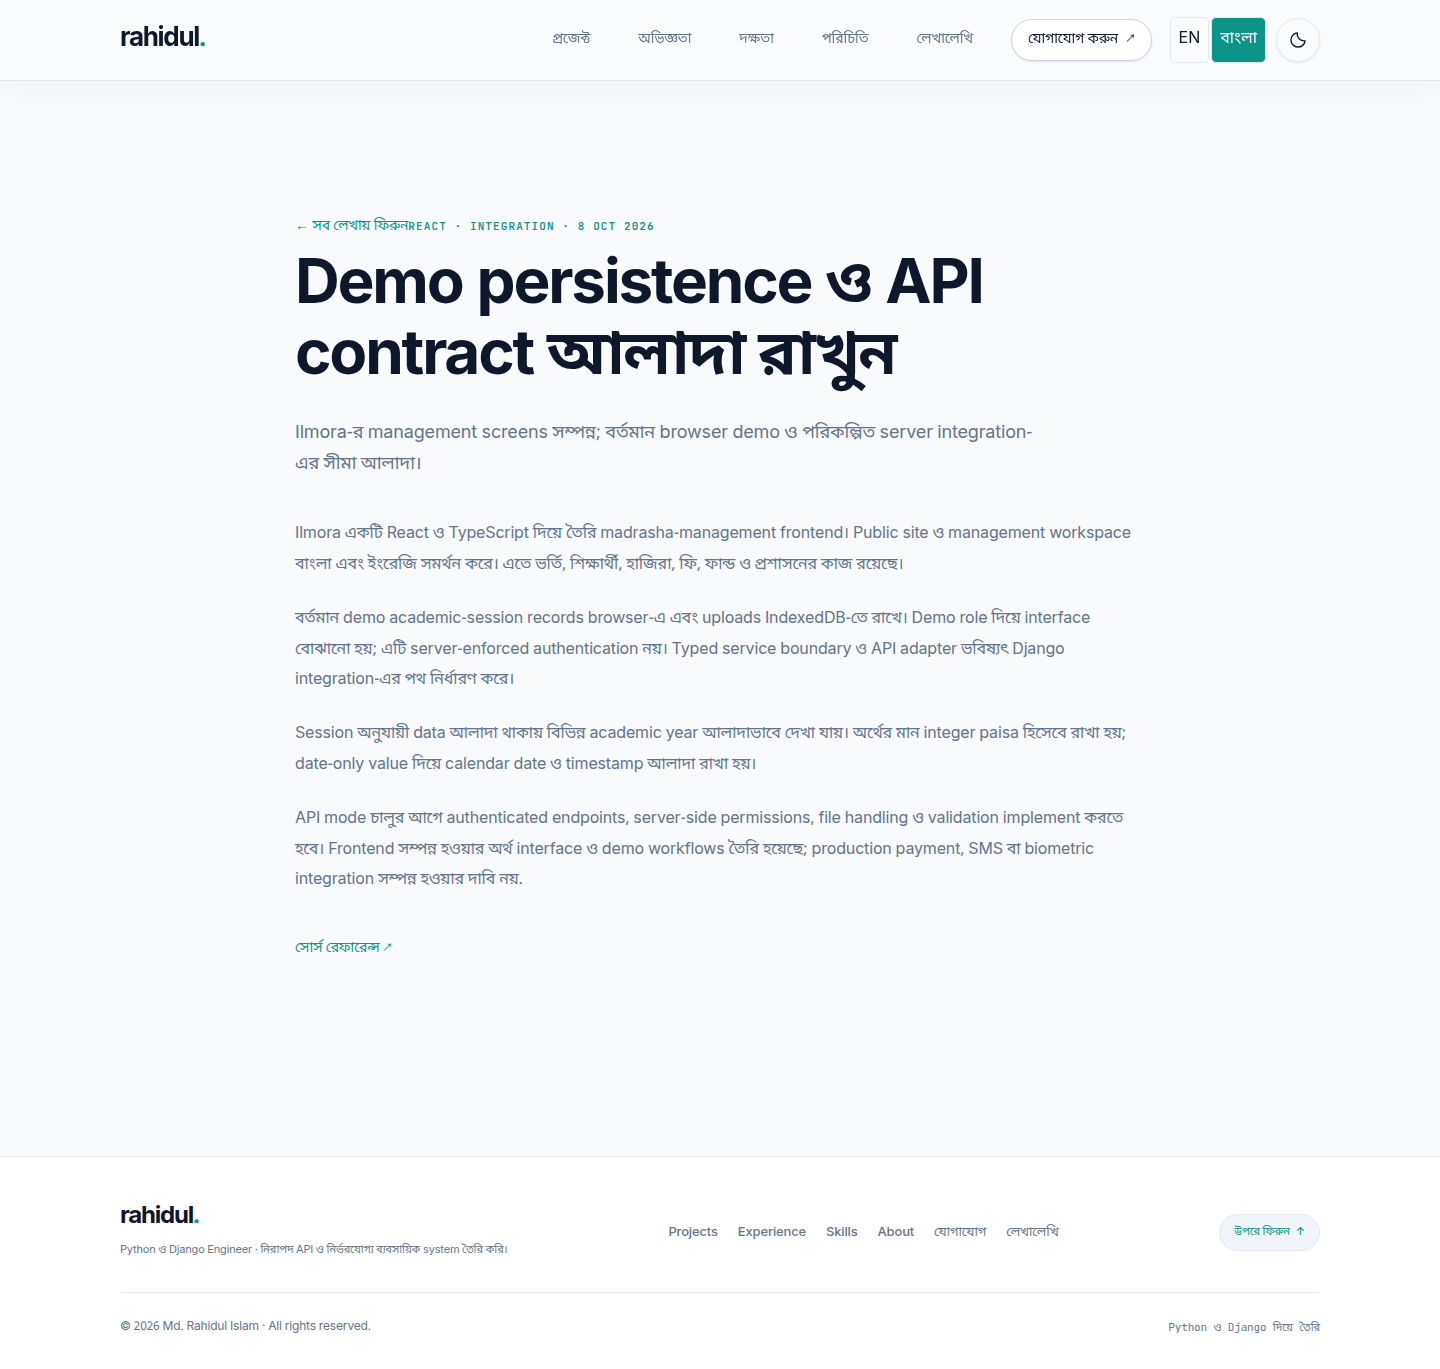
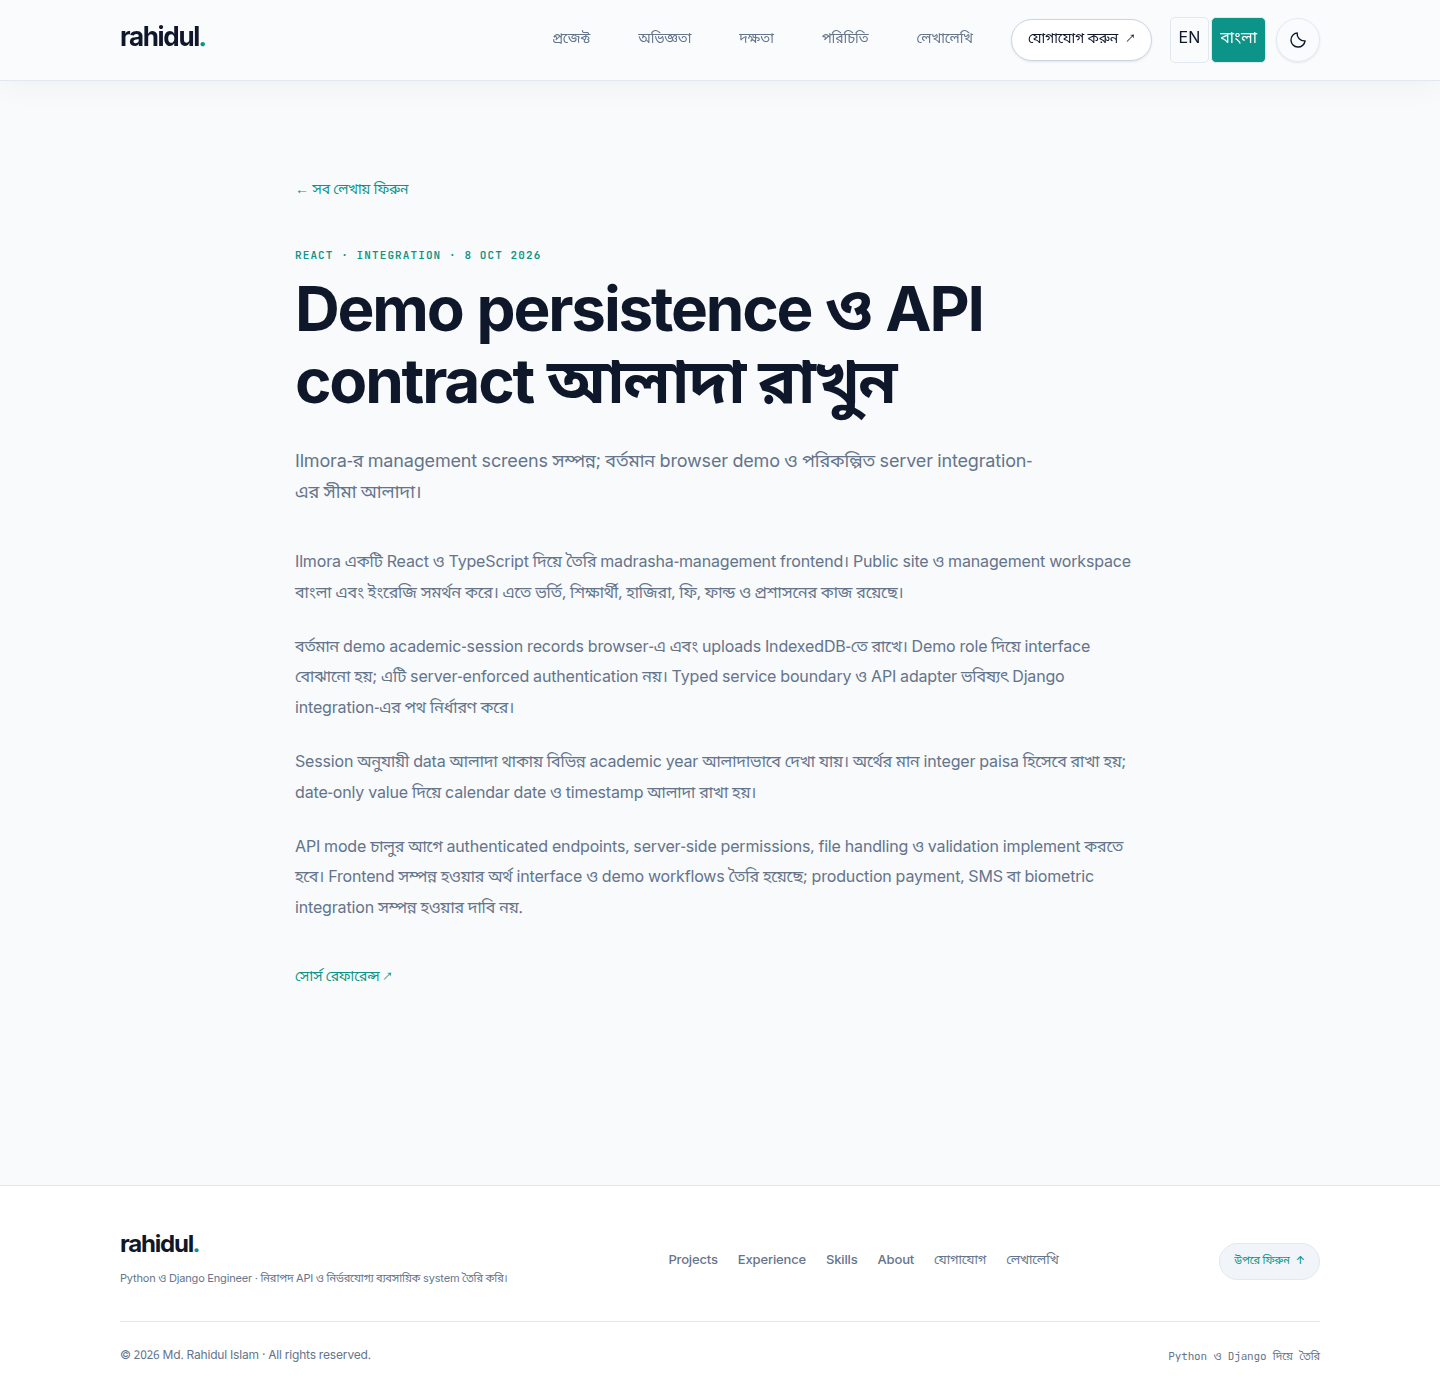
Polish Bangla validation and article reading layout

diff --git a/templates/layout/footer.html b/templates/layout/footer.html
@@ -5,10 +5,10 @@
       <p class="footer-tagline">{{ 'Python & Django Engineer · Building secure APIs and dependable business systems.'|translate:portfolio_language }}</p>
     </div>
     <div class="footer-nav">
-      <a href="{% url 'home:projects' %}">Projects</a>
-      <a href="{% url 'home:experience' %}">Experience</a>
-      <a href="{% url 'home:home' %}#services">Skills</a>
-      <a href="{% url 'home:home' %}#about">About</a>
+      <a href="{% url 'home:projects' %}">{{ 'Projects'|translate:portfolio_language }}</a>
+      <a href="{% url 'home:experience' %}">{{ 'Experience'|translate:portfolio_language }}</a>
+      <a href="{% url 'home:home' %}#services">{{ 'Skills'|translate:portfolio_language }}</a>
+      <a href="{% url 'home:home' %}#about">{{ 'About'|translate:portfolio_language }}</a>
       <a href="{% url 'home:home' %}#contact">{{ 'Contact'|translate:portfolio_language }}</a>
       <a href="{% url 'home:articles' %}">{{ 'Articles'|translate:portfolio_language }}</a>
     </div>
@@ -18,7 +18,7 @@
     </a>
   </div>
   <div class="container footer-bottom">
-    <span class="copyright">© {% now "Y" %} {{ personal_info.name|default:"Md. Rahidul Islam" }} · All rights reserved.</span>
+    <span class="copyright">© {% now "Y" %} {{ personal_info.name|default:"Md. Rahidul Islam" }} · {% bilingual 'All rights reserved.' 'সর্বস্বত্ব সংরক্ষিত।' %}</span>
     <span class="footer-built">{{ 'Handcrafted with Python & Django'|translate:portfolio_language }}</span>
   </div>
 </footer>

diff --git a/static/css/portfolio.css b/static/css/portfolio.css
@@ -1991,3 +1991,5 @@ textarea::placeholder {
 .project-media figcaption { font-size: 13px; margin-top: 14px; }
 .project-media video { width: 100%; max-height: 650px; margin-top: 24px; border-radius: 12px; background: #101a23; }
 html[lang="bn"] body { font-family: 'Noto Sans Bengali', Inter, Arial, sans-serif; }
+
+.reading-page > .eyebrow { display: block; }

diff --git a/home/forms.py b/home/forms.py
@@ -11,6 +11,7 @@ class ContactForm(forms.ModelForm):
         attrs={"class": "contact-trap", "autocomplete": "off", "tabindex": "-1", "style": "display:none"}))
 
     def __init__(self, *args, **kwargs):
+        self.request_language = kwargs.pop('request_language', 'en')
         self.request_ip = kwargs.pop("request_ip", "unknown")
         super().__init__(*args, **kwargs)
         self.fields["name"].widget.attrs.update(
@@ -22,11 +23,19 @@ class ContactForm(forms.ModelForm):
         self.fields["message"].widget.attrs.update(
             {"class": "form-control", "placeholder": "Message", "rows": "5"})
 
+        if self.request_language == 'bn':
+            placeholders = {'name': 'আপনার নাম', 'email': 'আপনার ইমেইল', 'subject': 'বিষয়', 'message': 'আপনার বার্তা'}
+            for name, placeholder in placeholders.items():
+                self.fields[name].widget.attrs['placeholder'] = placeholder
+                self.fields[name].error_messages['required'] = 'এই তথ্যটি পূরণ করুন।'
+                self.fields[name].error_messages['max_length'] = 'সর্বোচ্চ %(limit_value)d অক্ষর লিখুন।'
+            self.fields['email'].error_messages['invalid'] = 'সঠিক ইমেইল ঠিকানা দিন।'
+
     def clean(self):
         cleaned = super().clean()
         ip = self.request_ip
         if cleaned.get("website") or not self._within_rate_limit(ip):
-            raise ValidationError("We couldn't accept that message. Please try again later.")
+            raise ValidationError("এই বার্তাটি গ্রহণ করা যায়নি। পরে আবার চেষ্টা করুন।" if self.request_language == "bn" else "We couldn't accept that message. Please try again later.")
         return cleaned
 
     @staticmethod

diff --git a/home/tests.py b/home/tests.py
@@ -645,6 +645,9 @@ class PortfolioFeatureTests(TestCase):
         self.assertContains(self.client.get('/projects/'), 'প্রজেক্ট খুঁজুন')
         self.assertEqual(self.client.post('/language/', {'language': 'en', 'next': 'https://evil.example/'} )['Location'], '/')
         self.assertEqual(self.client.get('/language/').status_code, 405)
+        self.client.cookies['portfolio_language'] = 'bn'
+        response = self.client.post('/contact/', {'name': 'Visitor', 'email': 'invalid', 'subject': 'Hello', 'message': 'Hello'})
+        self.assertContains(response, 'সঠিক ইমেইল ঠিকানা দিন।')
 
     def test_experience_detail_uses_shared_live_profile(self):
         self.assertContains(self.client.get('/experience/'), 'TalentBridge')

diff --git a/home/views.py b/home/views.py
@@ -16,6 +16,7 @@ class HomeView(FormView):
 
     def get_form_kwargs(self):
         kwargs = super().get_form_kwargs()
+        kwargs["request_language"] = self.request.COOKIES.get("portfolio_language", "en")
         kwargs["request_ip"] = self.request.META.get("REMOTE_ADDR", "unknown")
         return kwargs
 
